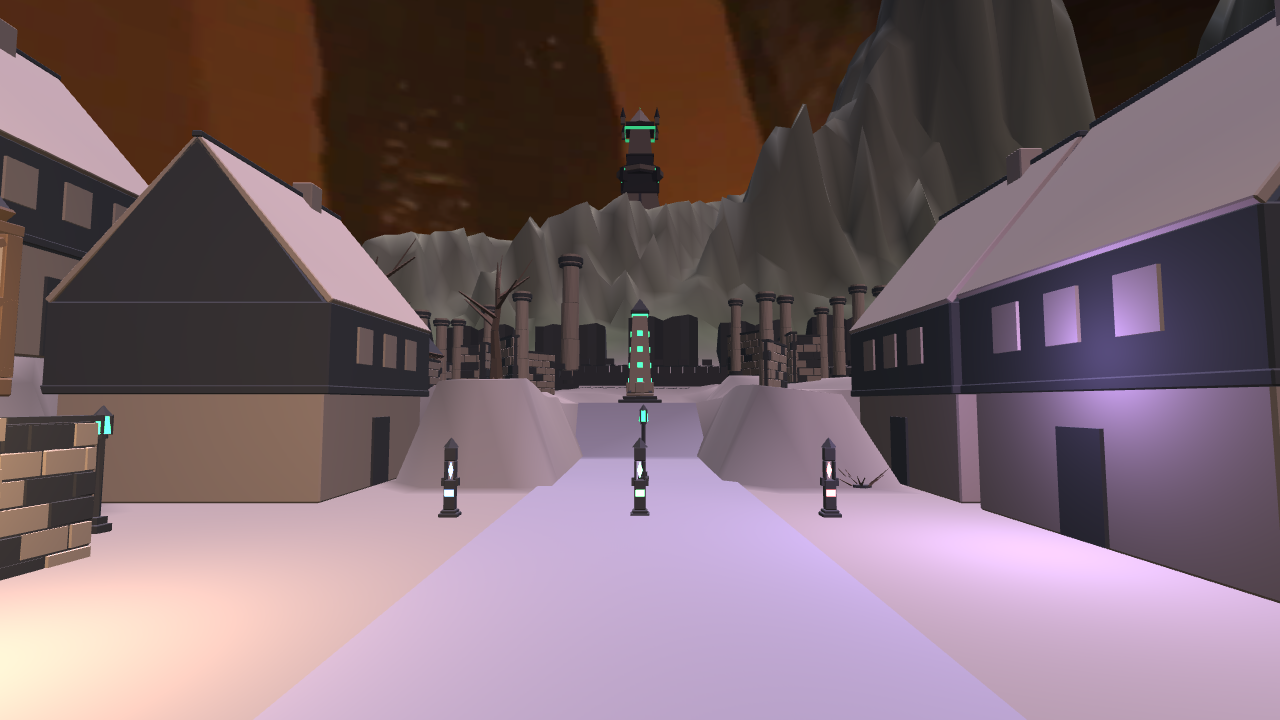
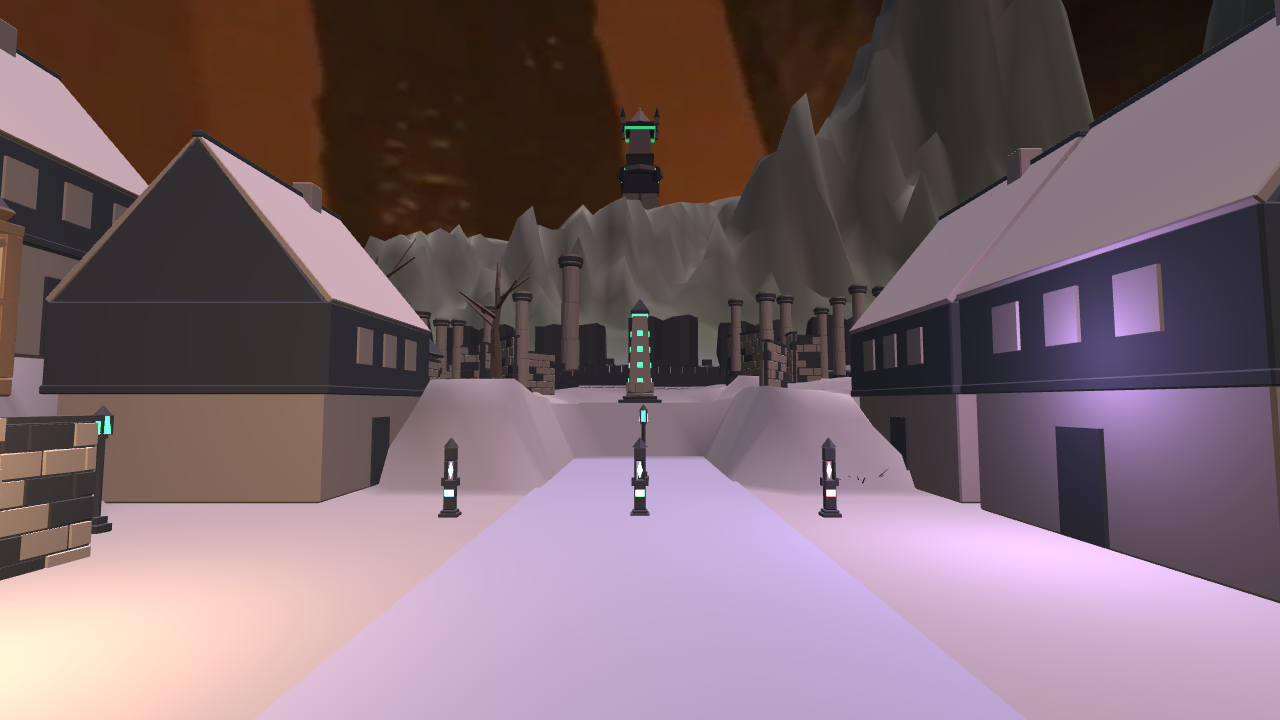
preview: 🌙 웨이브4 — 예산 트림(197→193k) + 성벽 유기화(물결치는 성곽, codex: BETTER) + 미러 개편: ①계획 페이지 실행로그식 타임스탬프(취소분 줄긋고 시각, 신규 실행 시각) ②생성 에셋 탭 신설(킷 40종 갤러리, 조각별 tri 실측) ③Stage 2.3 정련 루프 기준·목적 §4W.1 명문화. https://rhodewhalin.github.io/dark-onboarding-preview/assets.html

diff --git a/assets.html b/assets.html
@@ -1,0 +1,27 @@
+<!doctype html>
+<html lang="ko"><head><meta charset="utf-8"><meta name="viewport" content="width=device-width, initial-scale=1">
+<title>dark-onboarding-rpg — 생성 에셋 (킷 라이브러리)</title>
+<style>
+ :root { --bg:#14161c; --panel:#1c1f27; --edge:#2c3040; --ink:#e8e2d0; --dim:#9a94a6; --hot:#c98a3a; }
+ *{box-sizing:border-box} body{margin:0;background:var(--bg);color:var(--ink);font:15px/1.5 -apple-system,BlinkMacSystemFont,"Segoe UI",Roboto,"Noto Sans KR",sans-serif}
+ header{padding:18px 20px 10px;border-bottom:1px solid var(--edge)} h1{margin:0 0 4px;font-size:20px}
+ .sub{color:var(--dim);font-size:13px;max-width:900px}
+ .nav{padding:12px 20px;border-bottom:1px solid var(--edge);display:flex;gap:10px;flex-wrap:wrap}
+ .nav a{color:var(--ink);text-decoration:none;background:var(--panel);border:1px solid var(--edge);border-radius:8px;padding:7px 13px;font-size:14px}
+ .nav a:hover{border-color:var(--hot)} .nav a.here{background:var(--hot);color:#1a1206;font-weight:600;border-color:var(--hot)}
+ .wrap{padding:14px 20px 60px}
+ .fam{font-size:14px;color:var(--hot);margin:26px 0 10px;letter-spacing:.3px}
+ .agrid{display:grid;gap:12px;grid-template-columns:repeat(auto-fill,minmax(150px,1fr))}
+ .acard{background:var(--panel);border:1px solid var(--edge);border-radius:10px;overflow:hidden}
+ .aframe{aspect-ratio:1/1;background:#0c0d11;display:flex;align-items:center;justify-content:center}
+ .acard img{width:100%;height:100%;object-fit:contain;display:block}
+ .noimg{color:var(--dim);font-size:12px}
+ .acap{padding:8px 10px} .acap b{display:block;font-size:13px;word-break:break-all} .acap span{color:var(--dim);font-size:11px}
+ .note{color:var(--dim);font-size:12px;padding:12px 20px 0;max-width:900px}
+</style></head><body>
+<header><h1>생성 에셋 — 킷 라이브러리</h1>
+<div class="sub">3070(Blender)이 프로시저럴 생성한 다크판타지 저폴리 킷. 논문의 GPT-Image→Hunyuan3D 에셋 생성 경로를 우리 제약(가중치·팔레트 4색)에 맞춰 대체한 산출물. 조각별 LOD0/LOD1 트라이앵글·재질 수 실측.</div></header>
+<div class="nav"><a href="index.html">라이브 맵</a><a href="plan.html">월드 생성 계획</a><a href="assets.html" class="here">🧱 생성 에셋</a></div>
+<div class="note">킷 40종 프리뷰 · 총 LOD0 22,026 tri (예산 26,000). 프리뷰는 3070 증거팩(docs/evidence)에서, 실측표는 kit-quality.md에서 유도. 텍스처 베이크 단계 산출물은 이후 이 탭에 추가된다.</div>
+<div class="wrap"><h2 class="fam">벽·구조 (Walls & Structure)</h2><div class="agrid"><div class="acard"><div class="aframe"><img src="kit/wall_segment_4m.png" alt="wall_segment_4m" loading="lazy"></div><div class="acap"><b>wall_segment_4m</b><span>LOD0 1376 · LOD1 600 · 재질 2</span></div></div><div class="acard"><div class="aframe"><img src="kit/wall_corner.png" alt="wall_corner" loading="lazy"></div><div class="acap"><b>wall_corner</b><span>LOD0 1828 · LOD1 600 · 재질 2</span></div></div><div class="acard"><div class="aframe"><img src="kit/wall_window_4m.png" alt="wall_window_4m" loading="lazy"></div><div class="acap"><b>wall_window_4m</b><span>LOD0 756 · LOD1 400 · 재질 2</span></div></div><div class="acard"><div class="aframe"><img src="kit/wall_door_4m.png" alt="wall_door_4m" loading="lazy"></div><div class="acap"><b>wall_door_4m</b><span>LOD0 800 · LOD1 400 · 재질 2</span></div></div><div class="acard"><div class="aframe"><img src="kit/wall_jetty_4m.png" alt="wall_jetty_4m" loading="lazy"></div><div class="acap"><b>wall_jetty_4m</b><span>LOD0 768 · LOD1 500 · 재질 3</span></div></div><div class="acard"><div class="aframe"><img src="kit/arch_gate.png" alt="arch_gate" loading="lazy"></div><div class="acap"><b>arch_gate</b><span>LOD0 1276 · LOD1 600 · 재질 2</span></div></div><div class="acard"><div class="aframe"><img src="kit/foundation_plinth.png" alt="foundation_plinth" loading="lazy"></div><div class="acap"><b>foundation_plinth</b><span>LOD0 312 · LOD1 150 · 재질 1</span></div></div><div class="acard"><div class="aframe"><img src="kit/floor_tile_2m.png" alt="floor_tile_2m" loading="lazy"></div><div class="acap"><b>floor_tile_2m</b><span>LOD0 848 · LOD1 600 · 재질 2</span></div></div></div><h2 class="fam">지붕·건물 (Roofs & Building)</h2><div class="agrid"><div class="acard"><div class="aframe"><img src="kit/roof_gable_4m.png" alt="roof_gable_4m" loading="lazy"></div><div class="acap"><b>roof_gable_4m</b><span>LOD0 552 · LOD1 300 · 재질 2</span></div></div><div class="acard"><div class="aframe"><img src="kit/roof_gable_end_8.png" alt="roof_gable_end_8" loading="lazy"></div><div class="acap"><b>roof_gable_end_8</b><span>LOD0 316 · LOD1 200 · 재질 2</span></div></div><div class="acard"><div class="aframe"><img src="kit/roof_gable_end_12.png" alt="roof_gable_end_12" loading="lazy"></div><div class="acap"><b>roof_gable_end_12</b><span>LOD0 316 · LOD1 200 · 재질 2</span></div></div><div class="acard"><div class="aframe"><img src="kit/chimney_dormer.png" alt="chimney_dormer" loading="lazy"></div><div class="acap"><b>chimney_dormer</b><span>LOD0 272 · LOD1 150 · 재질 2</span></div></div><div class="acard"><div class="aframe"><img src="kit/building_shell_small.png" alt="building_shell_small" loading="lazy"></div><div class="acap"><b>building_shell_small</b><span>LOD0 420 · LOD1 420 · 재질 3</span></div></div><div class="acard"><div class="aframe"><img src="kit/shell_cottage.png" alt="shell_cottage" loading="lazy"></div><div class="acap"><b>shell_cottage</b><span>LOD0 380 · LOD1 380 · 재질 3</span></div></div><div class="acard"><div class="aframe"><img src="kit/shell_tower.png" alt="shell_tower" loading="lazy"></div><div class="acap"><b>shell_tower</b><span>LOD0 328 · LOD1 328 · 재질 3</span></div></div><div class="acard"><div class="aframe"><img src="kit/shell_hall.png" alt="shell_hall" loading="lazy"></div><div class="acap"><b>shell_hall</b><span>LOD0 512 · LOD1 450 · 재질 3</span></div></div><div class="acard"><div class="aframe"><img src="kit/shell_block.png" alt="shell_block" loading="lazy"></div><div class="acap"><b>shell_block</b><span>LOD0 372 · LOD1 372 · 재질 3</span></div></div></div><h2 class="fam">성벽·경계 (Ramparts & Boundary)</h2><div class="agrid"><div class="acard"><div class="aframe"><img src="kit/rampart_straight_6m.png" alt="rampart_straight_6m" loading="lazy"></div><div class="acap"><b>rampart_straight_6m</b><span>LOD0 396 · LOD1 300 · 재질 1</span></div></div><div class="acard"><div class="aframe"><img src="kit/rampart_curve_6m.png" alt="rampart_curve_6m" loading="lazy"></div><div class="acap"><b>rampart_curve_6m</b><span>LOD0 396 · LOD1 300 · 재질 1</span></div></div><div class="acard"><div class="aframe"><img src="kit/rampart_ribbon.png" alt="rampart_ribbon" loading="lazy"></div><div class="acap"><b>rampart_ribbon</b><span>LOD0 516 · LOD1 300 · 재질 2</span></div></div><div class="acard"><div class="aframe"><img src="kit/cliff_shelf.png" alt="cliff_shelf" loading="lazy"></div><div class="acap"><b>cliff_shelf</b><span>LOD0 134 · LOD1 134 · 재질 1</span></div></div></div><h2 class="fam">랜드마크·표식 (Landmarks & Markers)</h2><div class="agrid"><div class="acard"><div class="aframe"><img src="kit/monument.png" alt="monument" loading="lazy"></div><div class="acap"><b>monument</b><span>LOD0 852 · LOD1 600 · 재질 3</span></div></div><div class="acard"><div class="aframe"><img src="kit/monument_14.png" alt="monument_14" loading="lazy"></div><div class="acap"><b>monument_14</b><span>LOD0 940 · LOD1 600 · 재질 3</span></div></div><div class="acard"><div class="aframe"><img src="kit/order_marker.png" alt="order_marker" loading="lazy"></div><div class="acap"><b>order_marker</b><span>LOD0 324 · LOD1 324 · 재질 3</span></div></div><div class="acard"><div class="aframe"><img src="kit/landmark_spire.png" alt="landmark_spire" loading="lazy"></div><div class="acap"><b>landmark_spire</b><span>LOD0 1186 · LOD1 600 · 재질 3</span></div></div><div class="acard"><div class="aframe"><img src="kit/pillar_round.png" alt="pillar_round" loading="lazy"></div><div class="acap"><b>pillar_round</b><span>LOD0 920 · LOD1 600 · 재질 2</span></div></div><div class="acard"><div class="aframe"><img src="kit/pillar_broken.png" alt="pillar_broken" loading="lazy"></div><div class="acap"><b>pillar_broken</b><span>LOD0 450 · LOD1 300 · 재질 2</span></div></div></div><h2 class="fam">소품·잔해 (Props & Debris)</h2><div class="agrid"><div class="acard"><div class="aframe"><img src="kit/market_stall.png" alt="market_stall" loading="lazy"></div><div class="acap"><b>market_stall</b><span>LOD0 660 · LOD1 250 · 재질 2</span></div></div><div class="acard"><div class="aframe"><img src="kit/props_cluster.png" alt="props_cluster" loading="lazy"></div><div class="acap"><b>props_cluster</b><span>LOD0 488 · LOD1 300 · 재질 2</span></div></div><div class="acard"><div class="aframe"><img src="kit/rubble_pile.png" alt="rubble_pile" loading="lazy"></div><div class="acap"><b>rubble_pile</b><span>LOD0 936 · LOD1 300 · 재질 2</span></div></div><div class="acard"><div class="aframe"><img src="kit/lamp_post.png" alt="lamp_post" loading="lazy"></div><div class="acap"><b>lamp_post</b><span>LOD0 232 · LOD1 150 · 재질 2</span></div></div><div class="acard"><div class="aframe"><img src="kit/archive_shelf.png" alt="archive_shelf" loading="lazy"></div><div class="acap"><b>archive_shelf</b><span>LOD0 1200 · LOD1 600 · 재질 3</span></div></div></div><h2 class="fam">자연·식생 (Nature & Vegetation)</h2><div class="agrid"><div class="acard"><div class="aframe"><img src="kit/dead_tree.png" alt="dead_tree" loading="lazy"></div><div class="acap"><b>dead_tree</b><span>LOD0 216 · LOD1 216 · 재질 1</span></div></div><div class="acard"><div class="aframe"><div class="noimg">프리뷰 준비중</div></div><div class="acap"><b>dead_thicket</b><span>프리뷰 대기</span></div></div><div class="acard"><div class="aframe"><img src="kit/thorn_cluster.png" alt="thorn_cluster" loading="lazy"></div><div class="acap"><b>thorn_cluster</b><span>LOD0 148 · LOD1 148 · 재질 2</span></div></div><div class="acard"><div class="aframe"><img src="kit/glow_fungus.png" alt="glow_fungus" loading="lazy"></div><div class="acap"><b>glow_fungus</b><span>LOD0 260 · LOD1 250 · 재질 2</span></div></div><div class="acard"><div class="aframe"><img src="kit/moss_rock.png" alt="moss_rock" loading="lazy"></div><div class="acap"><b>moss_rock</b><span>LOD0 140 · LOD1 140 · 재질 2</span></div></div><div class="acard"><div class="aframe"><div class="noimg">프리뷰 준비중</div></div><div class="acap"><b>rock_outcrop</b><span>프리뷰 대기</span></div></div><div class="acard"><div class="aframe"><div class="noimg">프리뷰 준비중</div></div><div class="acap"><b>boulder_field</b><span>프리뷰 대기</span></div></div><div class="acard"><div class="aframe"><div class="noimg">프리뷰 준비중</div></div><div class="acap"><b>scrub_tuft</b><span>프리뷰 대기</span></div></div></div><h2 class="fam">물가 (Waterside)</h2><div class="agrid"><div class="acard"><div class="aframe"><div class="noimg">프리뷰 준비중</div></div><div class="acap"><b>reed_cluster</b><span>프리뷰 대기</span></div></div><div class="acard"><div class="aframe"><div class="noimg">프리뷰 준비중</div></div><div class="acap"><b>plank_bridge</b><span>프리뷰 대기</span></div></div><div class="acard"><div class="aframe"><div class="noimg">프리뷰 준비중</div></div><div class="acap"><b>dock_platform</b><span>프리뷰 대기</span></div></div></div><h2 class="fam">기타 (Other)</h2><div class="agrid"><div class="acard"><div class="aframe"><img src="kit/crystal_shard.png" alt="crystal_shard" loading="lazy"></div><div class="acap"><b>crystal_shard</b><span>LOD0 200 · LOD1 200 · 재질 2</span></div></div><div class="acard"><div class="aframe"><img src="kit/kit-courtyard.png" alt="kit-courtyard" loading="lazy"></div><div class="acap"><b>kit-courtyard</b><span>프리뷰 대기</span></div></div><div class="acard"><div class="aframe"><img src="kit/kit-junction.png" alt="kit-junction" loading="lazy"></div><div class="acap"><b>kit-junction</b><span>프리뷰 대기</span></div></div><div class="acard"><div class="aframe"><img src="kit/kit-lineup.png" alt="kit-lineup" loading="lazy"></div><div class="acap"><b>kit-lineup</b><span>프리뷰 대기</span></div></div></div></div>
+</body></html>

diff --git a/plan.html b/plan.html
@@ -46,6 +46,12 @@
   .rev .old { color:var(--strike); text-decoration:line-through; }
   .rev .new { color:var(--done); }
   .rev div { margin:4px 0; }
+  .rev .logline { margin:8px 0; padding-left:6px; border-left:2px solid var(--edge); }
+  .ts { display:inline-block; min-width:118px; color:var(--dim); font:11px/1.5 ui-monospace,SFMono-Regular,Menlo,Consolas,monospace; }
+  .ts.new { color:var(--done); }
+  .ststamp { margin-left:auto; margin-right:10px; color:var(--dim);
+             font:11px/1.4 ui-monospace,SFMono-Regular,Menlo,Consolas,monospace; }
+  .step .badge { margin-left:0; }
   .foot { color:var(--dim); font-size:12px; padding:0 20px 40px; max-width:900px; }
   .stamp { color:var(--dim); font-size:12px; }
 </style>
@@ -58,6 +64,7 @@
 <div class="nav">
   <a href="index.html">← 라이브 맵</a>
   <a href="plan.html" class="here">월드 생성 계획</a>
+  <a href="assets.html">🧱 생성 에셋</a>
 </div>
 
 <div class="goal" id="goal"></div>
@@ -68,7 +75,7 @@
 
 <script>
 // ── plan data (edited each wave; status: done | run | wait) ─────────────────────────────
-const UPDATED = "2026-08-16 · 야근 웨이브 3 (Stage 2 감사·보강 + Stage 3 재정의)";
+const UPDATED = "2026-08-16 02:15 · 야근 웨이브 4 (예산 트림 + 성벽 유기화 + 실행로그 타임스탬프)";
 const GOAL = "<b>이번 야근 목표:</b> Figure 1의 <b>Stage 1(Intent Analysis &amp; Planning)</b>을 thorough 하게 다시 세우고, <b>Stage 2 하위 3단계(Scene Terrain Generation &amp; Refinement)</b>까지 진행한다. 계기: 침식 버전이 여태 최선이나 ①좁은 타일에 과도한 고지대 ②맵에 물이 전혀 없음 — 되짚어 보니 <b>Stage 1을 건너뛰어</b> 지형 범주(특히 물)를 의도에서 유도하지 않고 건물 중심 분할로 직행한 게 근본 원인.";
 const FOOT = "핵심 인사이트: <i>coarse-to-fine agentic framework for building explicit, explorable, and editable 3D worlds from open-ended text.</i> — 우리도 거친 지형 골조(Stage 2)부터 세우고 점진적으로 조밀화(Stage 3)하되, 그 출발점인 의도 명세(Stage 1)를 먼저 제대로 닫는다.";
 
@@ -84,7 +91,7 @@ const STEPS = [
      <li><b>Terrain Categories</b> — <b>물(강/호수) 포함</b>, 고지/사면/평지/정착지/도로 — 각 범주에 hmap 함수와 재질을 부여(Stage 2c).</li>
    </ul>
    <p>산출물: <code>docs/spec/stage1_intent.md</code>(작성 완료) + <code>gen_realm_specs.py</code>의 <code>INTENT</code>/<code>WATER</code> 테이블 → 스펙 v3의 <code>intent</code>/<code>world.water</code>. <b>thoroughness</b>: 5왕국 전부 5개 필드 명세, 물(강/호수/오아시스/운하/산정호)을 1급 지형 범주로 포함, 스펙 재생성·분할 불변식 통과.</p>`,
-   rev:[{old:"지형 범주에 물 없음(Stage 1 건너뜀)", new:"물을 1급 지형 범주로 · 왕국별 water 명세"}] },
+   ts:"2026-08-16 00:55", rev:[{tsOld:"~2026-08-15 취소", old:"지형 범주에 물 없음(Stage 1 건너뜀)", tsNew:"2026-08-16 00:55 실행", new:"물을 1급 지형 범주로 · 왕국별 water 명세"}] },
 
  { stage:"Stage 2 — Global Terrain Generation", status:"done",
    title:"2.1 Prompt Planning — (a) 레이아웃 (b) 재질·에셋 (c) 지형 설계",
@@ -94,12 +101,12 @@ const STEPS = [
      <li><b>(b) material & asset design</b> — 범주별 재질(팔레트 매핑) + 범주별 산포 킷 집합.</li>
      <li><b>(c) terrain design</b> — 범주별 hmap 함수. <b>물: water_y + 하상 절개</b>, 고지: 크레스트 체인, 사면: 지맥+침식.</li>
    </ul>`,
-   rev:[] },
+   ts:"2026-08-16 00:55", rev:[] },
 
  { stage:"Stage 2 — Global Terrain Generation", status:"done",
    title:"2.2 Scene Assets Generation — 프로시저럴 킷(3070 Blender)",
    body:`<p>논문은 GPT-Image→Hunyuan3D로 에셋을 생성. 우리는 가중치·한국 제약으로 <b>3070 Blender 프로시저럴 킷</b>으로 대체(기능 등가). 라운드20 <b>물가 에셋</b> <code>reed_cluster</code>·<code>plank_bridge</code> 발주→즉시 납품→<code>WorldKit()</code> 자동 편입. 킷 42종.</p>`,
-   rev:[] },
+   ts:"2026-08-16 01:35", rev:[] },
 
  { stage:"Stage 2 — Global Terrain Generation", status:"done",
    title:"2.3 Scene Terrain Generation & Refinement ← 야근 종착점 ✔",
@@ -109,21 +116,21 @@ const STEPS = [
      <li><b>3d assets scatter</b> ✔ — 범주별 접지 산포(경사 검사) + 수변 갈대 + 도로-강 교차 다리.</li>
      <li><b>scene refinement</b> ✔(다회) — codex 게이트: 물 통합 archive·cognition YES. <b>Stage 2 전체 감사(논문 Figure 대조)</b>: 세 하위스텝 PARTIAL → 재질구역/산포 보강 중.</li>
    </ul>
-   <div class="rev"><h4>Stage 2 감사 (논문 Figure 대조) · 개정</h4>
-     <div><span class="old">재질구역: 왕국마다 단색 지면</span> → <span class="new">바이옴별 지면색(숲/모래/암반/협곡) — 정점색 한계까지, 3070 지면식생으로 마저</span></div>
-     <div><span class="old">산포: 성기고 격자형</span> → <span class="new">클러스터 군집(그로브·바위밭), 캡 66</span></div>
-     <div><span class="old">정련: 1~2라운드</span> → <span class="new">codex 다회 + 라운드22 3070 발주(scrub_tuft·dock_platform)</span></div>
+   <div class="rev"><h4>실행 로그 · Stage 2 감사(논문 Figure 대조)</h4>
+     <div class="logline"><span class="ts">2026-08-16 01:35 감사</span> <span class="old">재질구역: 왕국마다 단색 지면 (PARTIAL)</span><br><span class="ts new">2026-08-16 01:35→02:15</span> <span class="new">→ 바이옴 지면색 + scrub 지면식생(기하)로 구역 읽힘 (codex: YES)</span></div>
+     <div class="logline"><span class="ts">2026-08-16 01:35 감사</span> <span class="old">산포: 성기고 격자형 (PARTIAL)</span><br><span class="ts new">2026-08-16 01:35 실행</span> <span class="new">→ 클러스터 군집(그로브·바위밭)</span></div>
+     <div class="logline"><span class="ts">2026-08-15 (1~2회)</span> <span class="old">정련: 소수 라운드</span><br><span class="ts new">2026-08-16 계속</span> <span class="new">→ codex 다회 + 우리 기준·목적 정의(§4W 루프)</span></div>
    </div>
    <p><b>남은 리파인:</b> 정점색만으론 재질구역이 포그·조명에 눌림 → 3070 <code>scrub_tuft</code> 지면 식생으로 구역을 기하로 읽히게(대기). 성벽 직각 슬랩은 Stage 3 재정렬에서 함께.</p>`,
-   rev:[{old:"물 없음 · 좁은 타일 과도 고지대", new:"강·호수 도입 + 고지대 하향 + 수력 침식으로 지질 서사"}] },
+   ts:"2026-08-16 02:15", rev:[{tsOld:"~2026-08-15 취소", old:"물 없음 · 좁은 타일 과도 고지대", tsNew:"2026-08-16 00:55 실행", new:"강·호수 도입 + 고지대 하향 + 수력 침식으로 지질 서사"}] },
 
  { stage:"Stage 3 — Regional Object Generation & Placement", status:"wait",
    title:"⟳ 재정의 — 기존 도심 배치를 걷어내고 논문 3스텝으로 다시 세움",
    body:`<p><s>기존: 성곽 도시 스케일에서 스펙 구동 구역 분할·건물 조립·접지 패드·위계·안뜰 등 "완료"로 뒀던 분량.</s> → 이 배치는 <b>물·지질 지형이 없던 옛 지형 위에</b> 세워졌다. Stage 1/2를 새로 세웠으니, 논문 Figure 1의 Stage 3 세 스텝으로 <b>다시 정렬</b>한다(아래). 기존 도심 조립 로직 자체는 자산이지만, 이제 <b>물·지형을 인지</b>하고 <b>기능 구역</b>으로 재편해야 한다.</p>
-   <div class="rev"><h4>개정 이력</h4>
-     <div><span class="old">Stage 3 = "완료"로 표기</span> → <span class="new">논문 3스텝으로 재정의·재진행 (미착수)</span></div>
-     <div><span class="old">구역 = 건물 중심 분할(threshold/spine/core/precinct)</span> → <span class="new">기능 구역(광장·주거·보급·수변 어촌 등) + 물·지형 인지 배치</span></div>
-   </div>` },
+   <div class="rev"><h4>실행 로그 · 개정 이력</h4>
+     <div class="logline"><span class="ts">~2026-08-15 취소</span> <span class="old">Stage 3 = "완료"로 표기</span><br><span class="ts new">2026-08-16 01:35 실행</span> <span class="new">→ 논문 3스텝으로 재정의·재진행</span></div>
+     <div class="logline"><span class="ts">~2026-08-15 취소</span> <span class="old">구역 = 건물 중심 분할(threshold/spine/core/precinct)</span><br><span class="ts new">2026-08-16 01:35 실행</span> <span class="new">→ 기능 구역(광장·주거·보급·수변 어촌) + 물·지형 인지 배치</span></div>
+   </div>`, ts:"2026-08-16 01:35" },
 
  { stage:"Stage 3 — Regional Object Generation & Placement", status:"run",
    title:"3.1 Region Planning — 기능 구역 분할 (divide regions)",
@@ -133,11 +140,11 @@ const STEPS = [
 
  { stage:"Stage 3 — Regional Object Generation & Placement", status:"run",
    title:"3.2 Terrain-Aware Rendering & Placement — 구역별 지형 인지 배치",
-   body:`<p>오브젝트를 <b>지형·물을 인지해</b> 배치. ✔ 수변: 은행 접지(경사 검사)·부두는 수면 위·건물은 물 밖. ✔ 지면식생 <code>scrub_tuft</code>로 식생 구역을 기하로. 남음: 도심 구역 자체를 물·새 지형에 맞춰 재정렬.</p>` },
+   body:`<p>오브젝트를 <b>지형·물을 인지해</b> 배치. ✔ 수변: 은행 접지(경사 검사)·부두는 수면 위·건물은 물 밖. ✔ 지면식생 <code>scrub_tuft</code>로 식생 구역을 기하로. 남음: 도심 구역 자체를 물·새 지형에 맞춰 재정렬(성벽 유기화 ✔ 02:15).</p>`, ts:"2026-08-16 02:15" },
 
  { stage:"Stage 3 — Regional Object Generation & Placement", status:"run",
    title:"3.3 Scene Refinement — 구역별 정련 루프 (pose/scale/collision/quality)",
-   body:`<p>구역별 근접 렌더 → <b>자세·스케일·충돌·품질</b> 점검·수정. ✔ codex 중간검토: 재질구역 YES, 수변 SOMEWHAT→핑거부두·건조대 보강. <b>중간검토 계속</b>. 남음: 도심 재정렬 후 전체 워크스루 QA.</p>` },
+   body:`<p>구역별 근접 렌더 → <b>자세·스케일·충돌·품질</b> 점검·수정. ✔ codex 중간검토: 재질구역 YES, 수변 SOMEWHAT→핑거부두·건조대 보강. <b>중간검토 계속</b>. 남음: 도심 재정렬 후 전체 워크스루 QA.</p>`, ts:"2026-08-16 02:15" },
 ];
 
 const ICON = {done:"완료", run:"진행 중", wait:"대기"};
@@ -151,13 +158,21 @@ for (const s of STEPS) {
   }
   const d = document.createElement("details"); d.className = "step st-" + s.status;
   if (s.status === "run") d.open = true;
+  // revision = execution log: when a plan was superseded, its old line is struck WITH the timestamp
+  // it was cancelled, and the new plan carries the timestamp it was executed.
   let revHtml = "";
   if (s.rev && s.rev.length) {
-    revHtml = "<div class='rev'><h4>개정 이력</h4>" + s.rev.map(r =>
-      "<div><span class='old'>" + r.old + "</span> → <span class='new'>" + r.new + "</span></div>").join("") + "</div>";
+    revHtml = "<div class='rev'><h4>실행 로그 · 개정 이력</h4>" + s.rev.map(function(r){
+      var oldTs = r.tsOld || r.when || "";
+      var newTs = r.tsNew || r.when || "";
+      return "<div class='logline'>"
+        + "<span class='ts'>" + oldTs + "</span> <span class='old'>" + r.old + "</span>"
+        + "<br><span class='ts new'>" + newTs + "</span> <span class='new'>→ " + r.new + "</span></div>";
+    }).join("") + "</div>";
   }
+  var stamp = s.ts ? "<span class='ststamp'>" + s.ts + "</span>" : "";
   d.innerHTML = "<summary><span class='dot'></span><span class='tt'>" + s.title +
-    "</span><span class='badge'>" + ICON[s.status] + "</span></summary><div class='body'>" + s.body + revHtml + "</div>";
+    "</span>" + stamp + "<span class='badge'>" + ICON[s.status] + "</span></summary><div class='body'>" + s.body + revHtml + "</div>";
   wrap.appendChild(d);
 }
 </script>

diff --git a/index.html b/index.html
@@ -48,7 +48,7 @@
   <h1>dark-onboarding-rpg — 라이브 맵 프리뷰</h1>
   <div class="sub">5왕국을 시점 전환하며 한 번에 봅니다. 렌더가 갱신되면 자동 반영(30초마다).</div>
 </header>
-<div class="nav" style="padding:10px 20px;border-bottom:1px solid var(--edge);display:flex;gap:10px;"><a href="index.html" style="color:#e8e2d0;text-decoration:none;background:#1c1f27;border:1px solid #2c3040;border-radius:8px;padding:7px 13px;font-size:14px;">라이브 맵</a><a href="plan.html" style="color:#e8e2d0;text-decoration:none;background:#1c1f27;border:1px solid #2c3040;border-radius:8px;padding:7px 13px;font-size:14px;">🗺 월드 생성 계획 (WorldClaw 정렬)</a></div>
+<div class="nav" style="padding:10px 20px;border-bottom:1px solid var(--edge);display:flex;gap:10px;"><a href="index.html" style="color:#e8e2d0;text-decoration:none;background:#1c1f27;border:1px solid #2c3040;border-radius:8px;padding:7px 13px;font-size:14px;">라이브 맵</a><a href="plan.html" style="color:#e8e2d0;text-decoration:none;background:#1c1f27;border:1px solid #2c3040;border-radius:8px;padding:7px 13px;font-size:14px;">🗺 월드 생성 계획 (WorldClaw 정렬)</a><a href="assets.html" style="color:#e8e2d0;text-decoration:none;background:#1c1f27;border:1px solid #2c3040;border-radius:8px;padding:7px 13px;font-size:14px;">🧱 생성 에셋</a></div>
 <div class="bar">
   <span class="lbl">시점</span>
   <button class="vp on" data-vp="MAP">부감 (전체 맵)</button>
